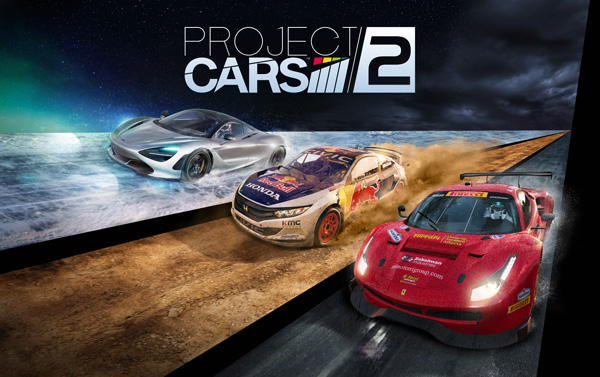
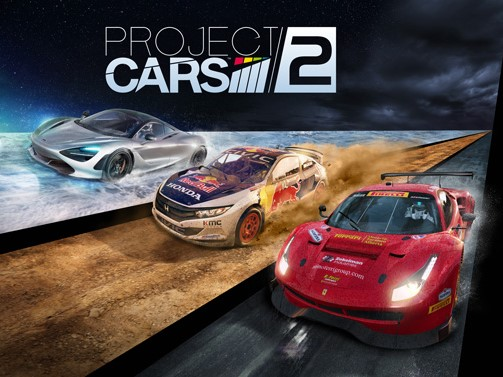
Changed the size of the project images

diff --git a/Page2.html b/Page2.html
@@ -32,22 +32,20 @@
         <h1>Projects</h1>
     </section>
     <section class="proj-image">
-        <div class="img-item">
-            <a href="https://www.projectcarsgame.com/two/overview/" target="_blank">
-                <img src="images/Proj1.jpg" alt="Project image">
-            </a>
-        </div>
-        <div class="img-item">
-            <a href="https://www.projectcarsgame.com/two/explore/" target="_blank">
-                <img src="images/Proj2.jpg" alt="Project image">
-            </a>
-        </div>
-        <div class="img-item">
-            <a href="https://www.projectcarsgame.com/three/" target="_blank">
-                <img src="images/proj3.jpg" alt="Project image">
-            </a>
-        </div>
 
+        <a href="https://www.projectcarsgame.com/two/overview/" target="_blank">
+            <img class="img-item" src="images/Proj1.jpg" alt="Project image">
+        </a>
+
+        <a href="https://www.projectcarsgame.com/two/explore/" target="_blank">
+            <img class="img-item" src="images/Proj2.jpg" alt="Project image">
+        </a>
+
+        <a href="https://www.projectcarsgame.com/three/" target="_blank">
+            <img class="img-item" src="images/proj3.jpg" alt="Project image">
+        </a>
+
+    </section>
         <div class="connect-heading">
             <h1>To Connect</h1>
         </div>
@@ -82,7 +80,7 @@
         </div>
 
 
-    </section>
+    
 
 </body>
 

diff --git a/style.css b/style.css
@@ -1,3 +1,7 @@
+html{
+    scroll-behavior: smooth;
+}
+
 body{
     background-color:rgb(241, 241, 199);
     font-family: 'Baskervville', Arial, serif;
@@ -81,13 +85,12 @@ button{
 .page-container{
     display: flex;
     height: 100%;
-    text-align: center;
-    margin-top: 3%;
 }
 
 .page-container h1{
     text-align: center;
     width: 100%;
+    font-size: 45px;
 }
  
 .connect-container{
@@ -122,23 +125,15 @@ button{
  
 .proj-image{
     width: 100%;
-    display: flex;
+    display: block;
     flex-wrap: wrap;
-    
-    
+    flex-direction: row;
 }
 .img-item{
-    display: flex;
-    flex-direction: row;
-    border-style: solid;
-    flex-basis: 33%;
-    flex-grow: 1;
-    max-width: 100%;
-}
-
-.img-item img{
-    max-width: 100%;
-    height: 100%;
+    display: inline;
+    height: auto;
+    width: 32.9%;
+    border: 2px solid black
 }
 
 
@@ -174,6 +169,14 @@ button{
     max-width: 100%;
     background-color: #fff;
     flex-wrap: wrap;
+}
+
+a{
+    text-decoration: none;
+}
+
+a:hover{
+    color: grey;
 }
 
 .flex-item {
@@ -255,15 +258,9 @@ button{
 
     .img-item{
         flex-direction: column;
-        width: 100%;
-        flex-basis: 50%;
-        
+        width: 100%;        
     }
- 
-    .img-item img{
-        
-        width: 100%;
-    }
+
 
     .skill-container img{
         width: 95%;
